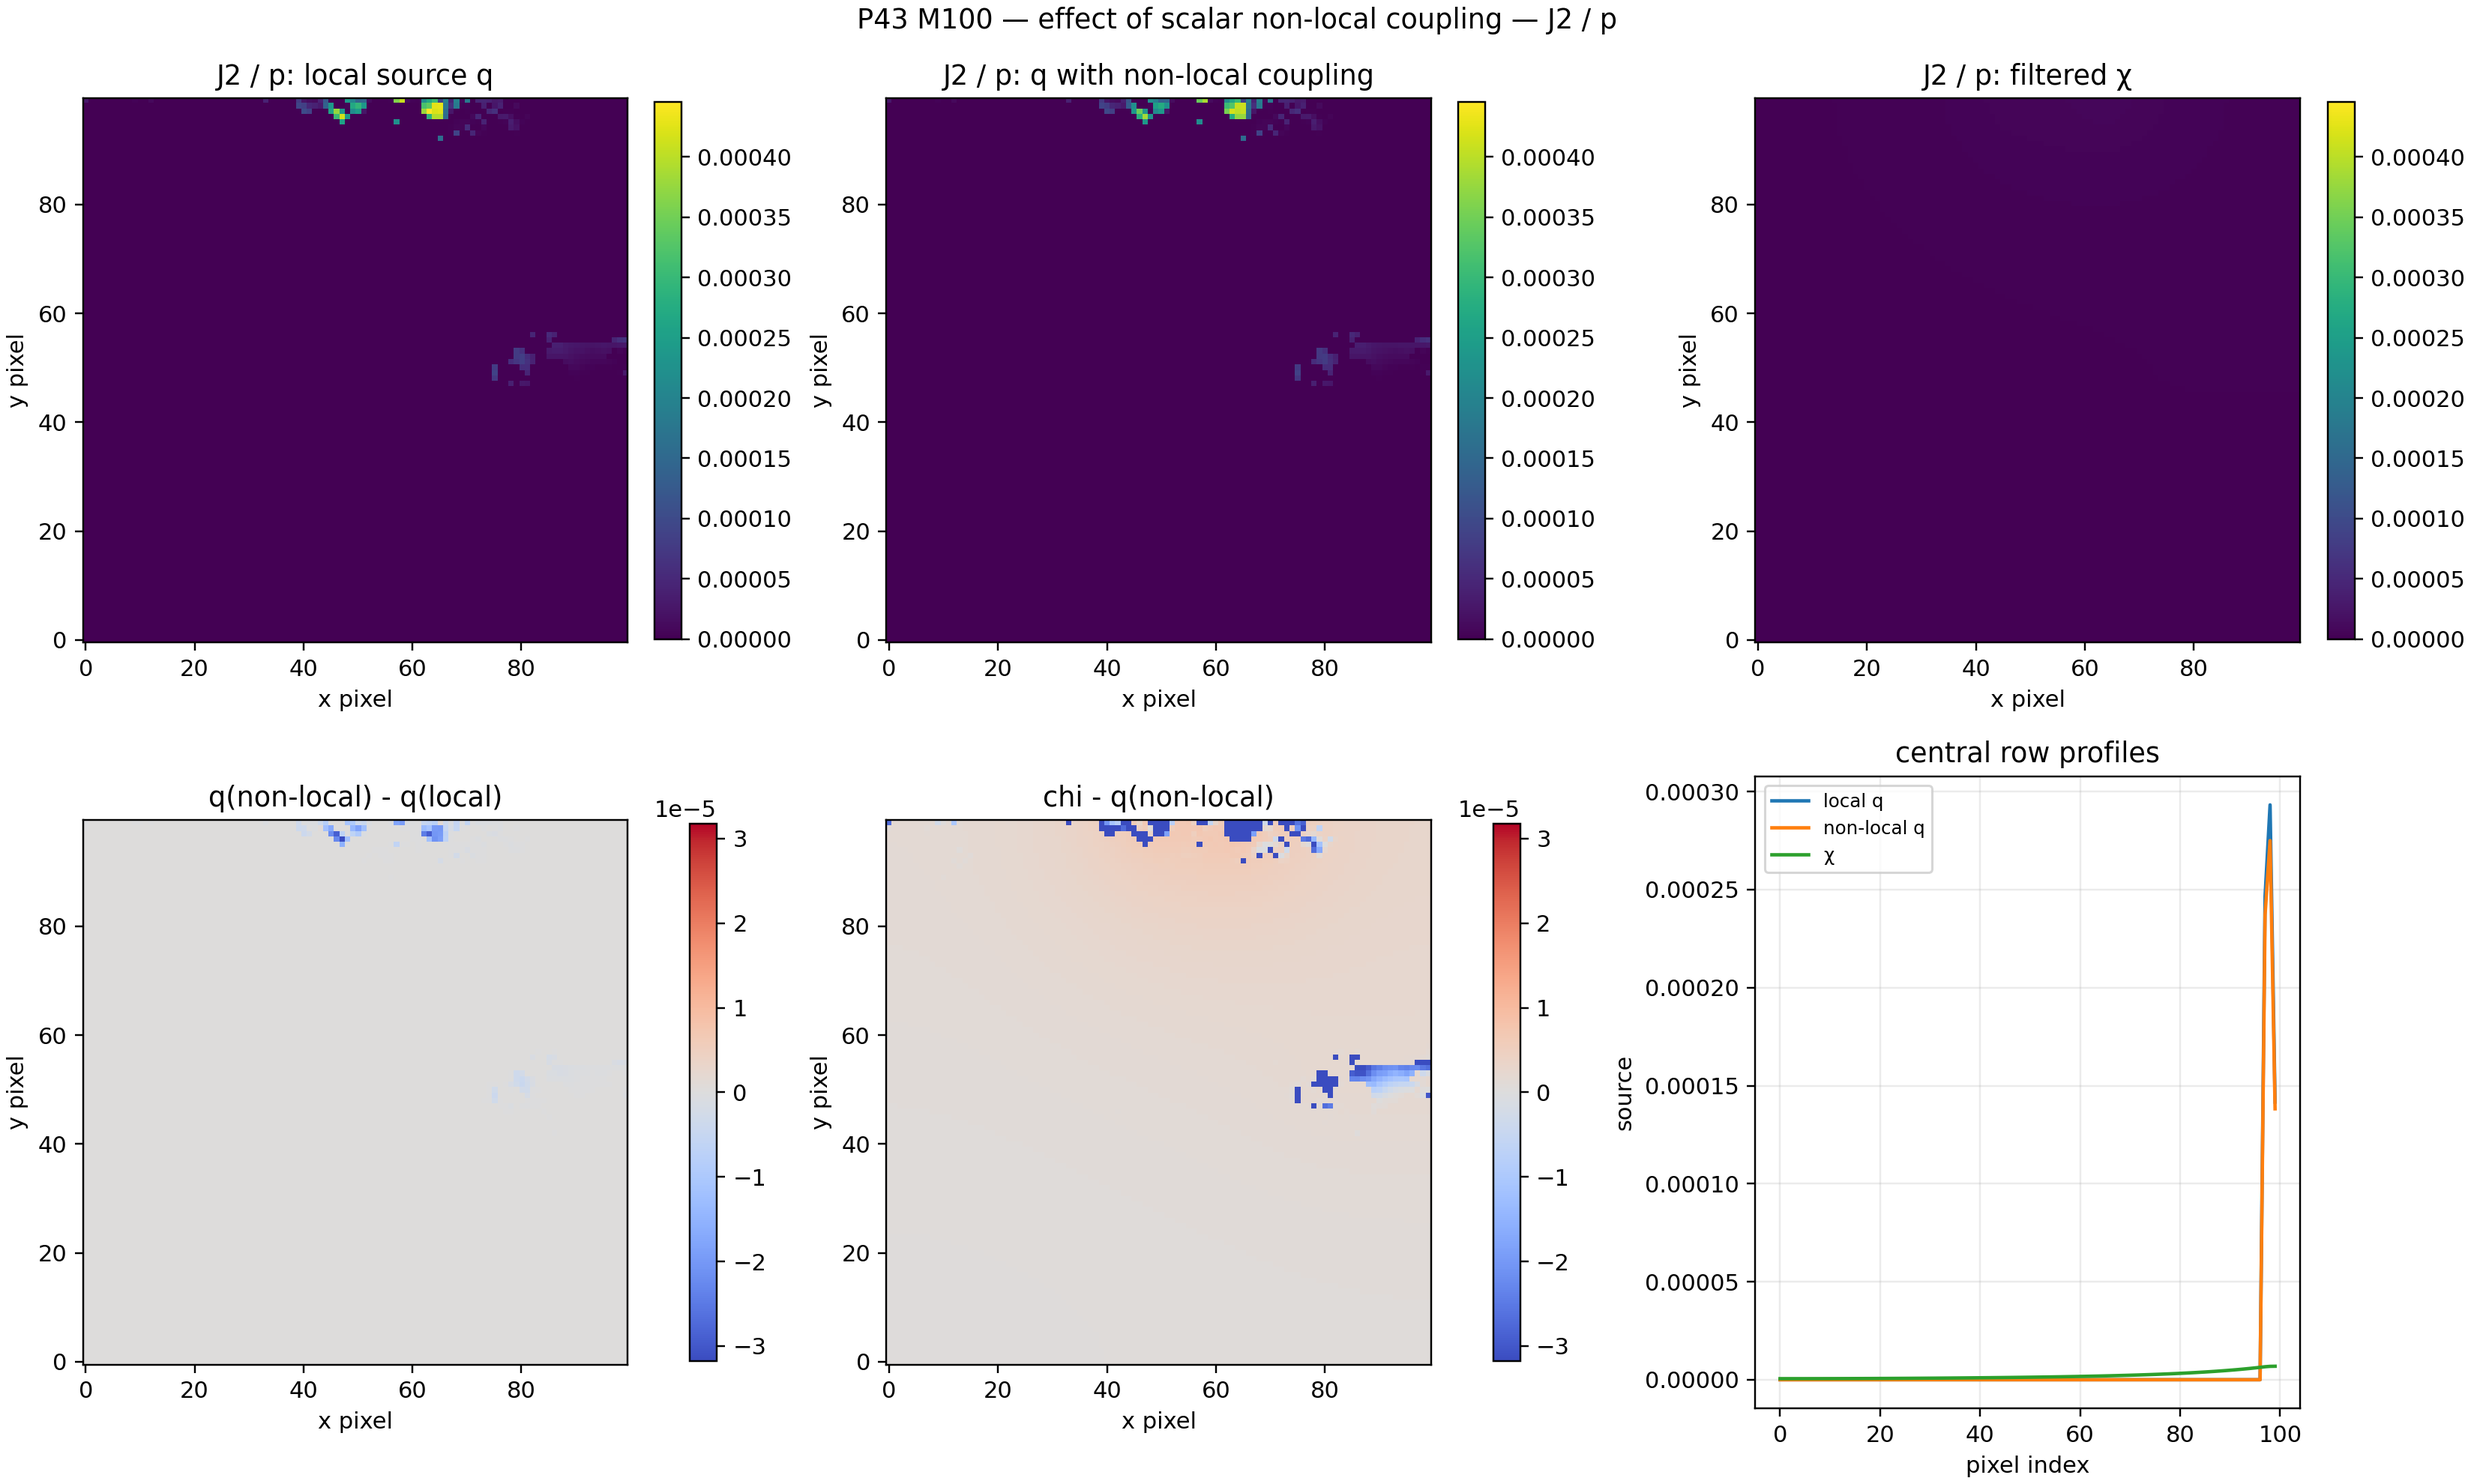
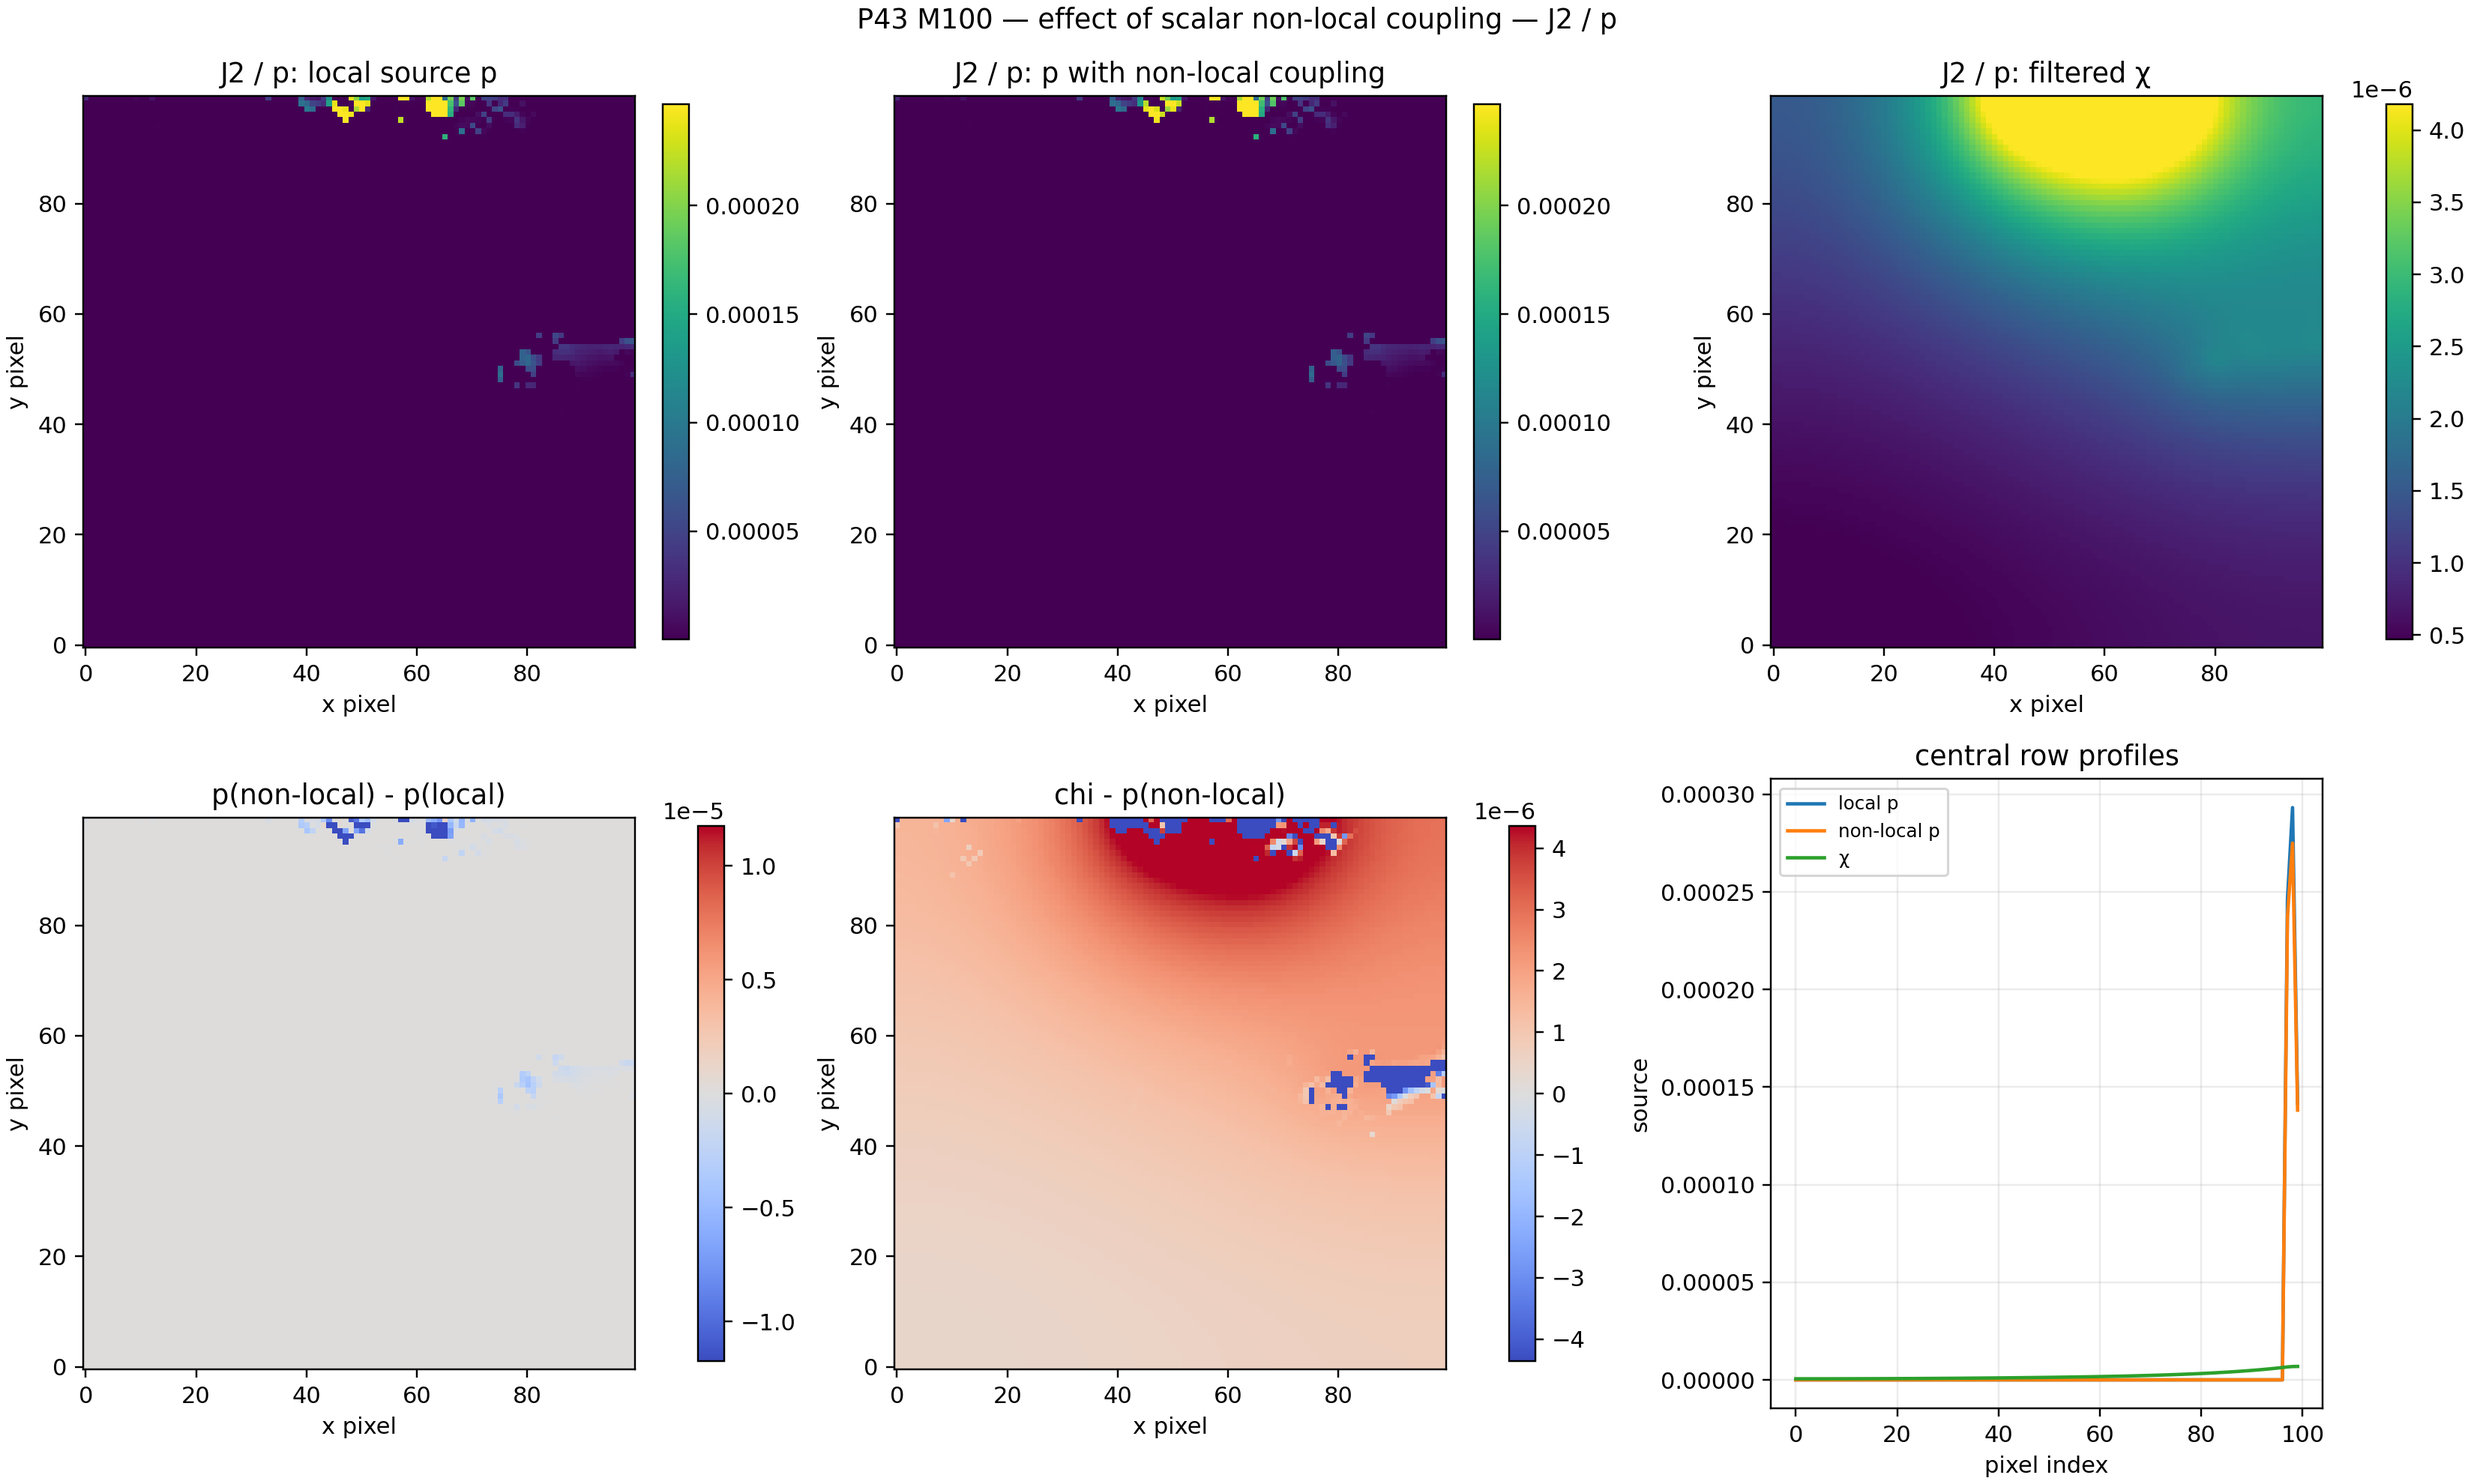
fix: improve nonlocal field visualization

diff --git a/scripts/plot_nonlocal_effects_p43.py b/scripts/plot_nonlocal_effects_p43.py
@@ -20,31 +20,46 @@ def _field(path: Path, key: str, shape: tuple[int, int] | None = None) -> np.nda
     return value
 
 
-def _plot_one(local_path: Path, nonlocal_path: Path, label: str, output: Path) -> dict[str, float]:
+def _limits(*arrays: np.ndarray) -> tuple[float, float]:
+    """Return readable 5--95% limits, ignoring the inactive zero background."""
+    values = np.concatenate([np.abs(np.asarray(array, dtype=float).ravel()) for array in arrays])
+    finite = values[np.isfinite(values)]
+    positive = finite[finite > max(float(np.max(finite, initial=0.0)) * 1.0e-12, 1.0e-30)]
+    if positive.size == 0:
+        positive = finite
+    low, high = np.percentile(positive, [5, 95])
+    return float(low), float(max(high, low + 1.0e-30))
+
+
+def _plot_one(
+    local_path: Path, nonlocal_path: Path, label: str, output: Path, source_name: str
+) -> dict[str, float]:
     local = _field(local_path, "monolithic_peeq")
     coupled_source = _field(nonlocal_path, "monolithic_peeq")
     chi = _field(nonlocal_path, "monolithic_chi", local.shape)
 
     source_delta = coupled_source - local
     filtered_delta = chi - coupled_source
-    scale = max(float(np.max(np.abs(local))), float(np.max(np.abs(coupled_source))), 1e-30)
-    delta_scale = max(float(np.max(np.abs(source_delta))), 1e-30)
+    source_limits = _limits(local, coupled_source)
+    chi_limits = _limits(chi)
+    source_delta_limits = _limits(source_delta)
+    filtered_delta_limits = _limits(filtered_delta)
     centre = local.shape[0] // 2
 
     figure, axes = plt.subplots(2, 3, figsize=(15, 9), constrained_layout=True)
     panels = (
-        (local, f"{label}: local source q"),
-        (coupled_source, f"{label}: q with non-local coupling"),
+        (local, f"{label}: local source {source_name}"),
+        (coupled_source, f"{label}: {source_name} with non-local coupling"),
         (chi, f"{label}: filtered χ"),
-        (source_delta, "q(non-local) - q(local)"),
-        (filtered_delta, "chi - q(non-local)"),
+        (source_delta, f"{source_name}(non-local) - {source_name}(local)"),
+        (filtered_delta, f"chi - {source_name}(non-local)"),
         (None, "central row profiles"),
     )
     for axis, (values, title) in zip(axes.flat, panels, strict=True):
         if values is None:
             x = np.arange(local.shape[1])
-            axis.plot(x, local[centre], label="local q")
-            axis.plot(x, coupled_source[centre], label="non-local q")
+            axis.plot(x, local[centre], label=f"local {source_name}")
+            axis.plot(x, coupled_source[centre], label=f"non-local {source_name}")
             axis.plot(x, chi[centre], label="χ")
             axis.set_xlabel("pixel index")
             axis.set_ylabel("source")
@@ -52,14 +67,22 @@ def _plot_one(local_path: Path, nonlocal_path: Path, label: str, output: Path) -
             axis.grid(alpha=0.25)
             axis.set_title(title)
             continue
-        is_difference = title.startswith(("q(", "chi -"))
+        is_difference = title.startswith((f"{source_name}(", "chi -"))
+        if title == f"{label}: filtered χ":
+            limits = chi_limits
+        elif title.startswith(f"{source_name}(non-local)"):
+            limits = source_delta_limits
+        elif title.startswith("chi -"):
+            limits = filtered_delta_limits
+        else:
+            limits = source_limits
         image = axis.imshow(
             values.T,
             origin="lower",
             aspect="equal",
             cmap="coolwarm" if is_difference else "viridis",
-            vmin=-delta_scale if is_difference else 0.0,
-            vmax=delta_scale if is_difference else scale,
+            vmin=-limits[1] if is_difference else limits[0],
+            vmax=limits[1],
         )
         axis.set_title(title)
         axis.set_xlabel("x pixel")
@@ -73,6 +96,11 @@ def _plot_one(local_path: Path, nonlocal_path: Path, label: str, output: Path) -
         "local_max": float(local.max()),
         "nonlocal_source_max": float(coupled_source.max()),
         "chi_max": float(chi.max()),
+        "source_percentile_5": source_limits[0],
+        "source_percentile_95": source_limits[1],
+        "chi_percentile_5": chi_limits[0],
+        "chi_percentile_95": chi_limits[1],
+        "source_name": source_name,
         "source_delta_l2_relative": float(
             np.linalg.norm(source_delta) / max(np.linalg.norm(local), 1e-30)
         ),
@@ -90,6 +118,8 @@ def main() -> int:
     parser.add_argument("--j2-nonlocal", type=Path, required=True)
     parser.add_argument("--meric-local", type=Path, required=True)
     parser.add_argument("--meric-nonlocal", type=Path, required=True)
+    parser.add_argument("--srix-local", type=Path, required=True)
+    parser.add_argument("--srix-nonlocal", type=Path, required=True)
     parser.add_argument("--output-dir", type=Path, required=True)
     args = parser.parse_args()
     args.output_dir.mkdir(parents=True, exist_ok=True)
@@ -99,12 +129,21 @@ def main() -> int:
             args.j2_nonlocal,
             "J2 / p",
             args.output_dir / "p43_m100_j2_nonlocal_effect.png",
+            "p",
         ),
         "meric": _plot_one(
             args.meric_local,
             args.meric_nonlocal,
             "Méric / Γ",
             args.output_dir / "p43_m100_meric_nonlocal_effect.png",
+            "Gamma",
+        ),
+        "srix": _plot_one(
+            args.srix_local,
+            args.srix_nonlocal,
+            "SRIX / Gamma",
+            args.output_dir / "p43_m100_srix_nonlocal_effect.png",
+            "Gamma",
         ),
     }
     import json
